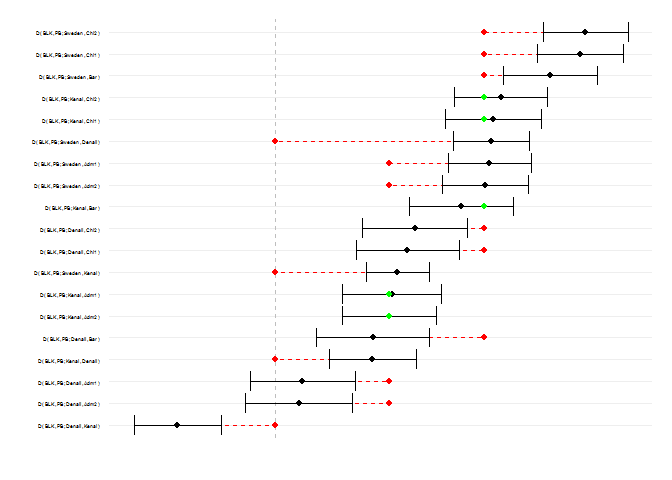
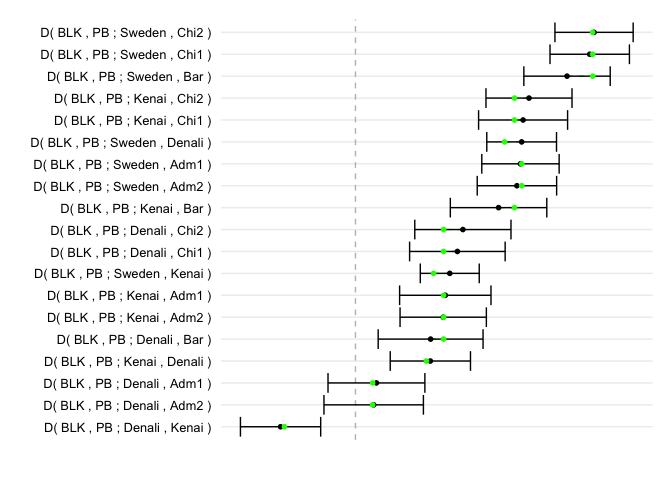
Changed order of parameters in fit_graph to preserve old interface
We don’t want to break the interface of the function since it is
already used quite a few places, so the parameters should come in the
same order as before.

diff --git a/README.md b/README.md
@@ -39,7 +39,7 @@ bears
 #> 16 BLK PB Sweden Denali  0.1267    14.3
 #> 17 BLK PB  Kenai Denali  0.0571     5.6
 #> 18 BLK PB Sweden  Kenai  0.0719     9.6
-#> 19 BLK PB Denali  Kenai -0.0571     5.6
+#> 19 BLK PB Denali  Kenai -0.0571    -5.6
 ```
 
 The D column is the f4(W,X;Y,Z) statistic and the Z column is the Z-values obtained from a blocked jacknife (see Patterson *et al.* for details).
@@ -53,12 +53,15 @@ leaves <- c("BLK", "PB",
 inner_nodes <- c("R", "PBBB",
                  "Adm", "Chi", "BC", "ABC",
                  "x", "y", "z",
-                 "bc_a1", "pb_a1", "abc_a2", "pb_a2")
+                 "pb_a1", "pb_a2", "pb_a3", "pb_a4",
+                 "bc_a1", "abc_a2", "x_a3", "y_a4")
 
 edges <- parent_edges(c(edge("BLK", "R"),
                         edge("PB", "pb_a1"),
                         edge("pb_a1", "pb_a2"),
-                        edge("pb_a2", "PBBB"),
+                        edge("pb_a2", "pb_a3"),
+                        edge("pb_a3", "pb_a4"),
+                        edge("pb_a4", "PBBB"),
                         
                         edge("Chi1", "Chi"),
                         edge("Chi2", "Chi"),
@@ -74,12 +77,15 @@ edges <- parent_edges(c(edge("BLK", "R"),
                         
                         edge("ABC", "abc_a2"),
                         admixture_edge("abc_a2", "pb_a2", "x"),
+                        
                         edge("Denali", "x"),
-                        
-                        edge("x", "y"),
+                        edge("x", "x_a3"),
+                        admixture_edge("x_a3", "pb_a3", "y"),
+                      
                         edge("Kenai", "y"),
+                        edge("y", "y_a4"),                        
+                        admixture_edge("y_a4", "pb_a4", "z"),
                         
-                        edge("y", "z"),
                         edge("Sweden", "z"),
                         
                         edge("z", "PBBB"),
@@ -87,7 +93,9 @@ edges <- parent_edges(c(edge("BLK", "R"),
  
 
 admixtures <- admixture_proportions(c(admix_props("bc_a1", "pb_a1", "ABC", "a"),
-                                      admix_props("abc_a2", "pb_a2", "x", "b")))
+                                      admix_props("abc_a2", "pb_a2", "x", "b"),
+                                      admix_props("x_a3", "pb_a3", "y", "c"),
+                                      admix_props("y_a4", "pb_a4", "z", "d")))
                                 
 bears_graph <- agraph(leaves, inner_nodes, edges, admixtures)
 plot(bears_graph, show_inner_node_labels = TRUE, show_admixture_labels = TRUE)
@@ -95,48 +103,18 @@ plot(bears_graph, show_inner_node_labels = TRUE, show_admixture_labels = TRUE)
 
 ![](README-graph-1.png)
 
-The graph makes predictions on how the f4 statistics should look, in particular it allows us to predict the signs of the f4 statistics.
-
-``` r
-add_graph_f4_sign(bears, bears_graph)
-#>      W  X      Y      Z       D Z.value graph_f4_sign
-#> 1  BLK PB Sweden   Adm1  0.1258    12.8             1
-#> 2  BLK PB  Kenai   Adm1  0.0685     5.9             1
-#> 3  BLK PB Denali   Adm1  0.0160     1.3             1
-#> 4  BLK PB Sweden   Adm2  0.1231    12.2             1
-#> 5  BLK PB  Kenai   Adm2  0.0669     6.1             1
-#> 6  BLK PB Denali   Adm2  0.0139     1.1             1
-#> 7  BLK PB Sweden    Bar  0.1613    14.7             1
-#> 8  BLK PB  Kenai    Bar  0.1091     8.9             1
-#> 9  BLK PB Denali    Bar  0.0573     4.3             1
-#> 10 BLK PB Sweden   Chi1  0.1786    17.7             1
-#> 11 BLK PB  Kenai   Chi1  0.1278    11.3             1
-#> 12 BLK PB Denali   Chi1  0.0777     6.4             1
-#> 13 BLK PB Sweden   Chi2  0.1819    18.3             1
-#> 14 BLK PB  Kenai   Chi2  0.1323    12.1             1
-#> 15 BLK PB Denali   Chi2  0.0819     6.7             1
-#> 16 BLK PB Sweden Denali  0.1267    14.3             0
-#> 17 BLK PB  Kenai Denali  0.0571     5.6             0
-#> 18 BLK PB Sweden  Kenai  0.0719     9.6             0
-#> 19 BLK PB Denali  Kenai -0.0571     5.6             0
-```
-
-The way the signs are predicted is by extracting the equations for the f4 statistics that the graph implies: For each quartet of leaves we can extract an equation for the corresponding f4 statistics --- an equation in the edge lenghts and admixture proportions --- and if this equation only have positive values we know that the sign must be positive, if it only has negative values we know that it must be negative, and if it constant zero we know it must be zero.
-
-In general we will not always have only positive or negative terms, in which case we cannot this simply predict the sign for f4 statistics. If this is the case we need to set the parameters of the graph --- the edge lengths and admixture proportions --- to get the sign, and in that case we can also predict the numerical value of the f4 statistics from the graph.
-
 Fitting a graph to data
 -----------------------
 
-If you have the *neldermead* package installed you can also fit graph parameters to data. This is done using the *fit\_graph* function
+The graph makes predictions on how the f4 statistics should look. If you have the *neldermead* package installed you can fit graph parameters to observed D statistics. This is done using the *fit\_graph* function
 
 ``` r
 fit <- fit_graph(bears, bears_graph)
 fit
+#> 
 #> Call:
 #> fit_graph(bears, bears_graph)
-#> 
-#> Sum of squared error: 0.05616058
+#> Minimal error: 0.001490682
 ```
 
 The object it returns contains an environment that contains the fitted parameters and a data frame containing the original data together with an extra column, graph\_f4, containing the fitted values.
@@ -145,23 +123,71 @@ You can get the fitted values by calling the *summary* function.
 
 ``` r
 summary(fit)
-#> $edges
-#>        edge_R_BLK       edge_R_PBBB       edge_PBBB_z   edge_PBBB_pb_a2 
-#>         0.5578745         0.6533692         0.3308397         0.1310714 
-#>     edge_Adm_Adm1     edge_Adm_Adm2     edge_Chi_Chi1     edge_Chi_Chi2 
-#>         0.2377484         0.4161372         0.3390001         0.3980298 
-#>       edge_BC_Bar       edge_BC_Chi      edge_ABC_Adm    edge_ABC_bc_a1 
-#>         0.3713564         0.2121660         0.2812783         0.6126012 
-#>     edge_x_Denali     edge_x_abc_a2      edge_y_Kenai          edge_y_x 
-#>         0.5322290         0.1177221         0.6800850         0.2068741 
-#>     edge_z_Sweden          edge_z_y     edge_bc_a1_BC     edge_pb_a1_PB 
-#>         0.1944327         0.3962563         0.6673905         0.7039828 
-#>  edge_pb_a1_bc_a1   edge_abc_a2_ABC  edge_pb_a2_pb_a1 edge_pb_a2_abc_a2 
-#>         0.5430706         0.5114686         0.2511370         0.5978245 
 #> 
-#> $admixture_proportions
-#>         a         b 
-#> 0.1773438 0.5107676
+#> Call:
+#> fit_graph(bears, bears_graph)
+#> 
+#> Optimal admix variables:
+#>          a          b          c          d 
+#> 0.02456094 0.18425666 0.65506255 0.72709146 
+#> 
+#> Optimal edge variables:
+#>        edge_R_BLK       edge_R_PBBB       edge_PBBB_z   edge_PBBB_pb_a4 
+#>        0.00000000        0.00000000        0.00000000        0.08191886 
+#>     edge_Adm_Adm1     edge_Adm_Adm2     edge_Chi_Chi1     edge_Chi_Chi2 
+#>        0.00000000        0.00000000        0.00000000        0.00000000 
+#>       edge_BC_Bar       edge_BC_Chi      edge_ABC_Adm    edge_ABC_bc_a1 
+#>        0.00000000        0.00000000        0.00000000        0.00000000 
+#>     edge_x_Denali     edge_x_abc_a2      edge_y_Kenai       edge_y_x_a3 
+#>        0.00000000        0.00000000        0.00000000        0.00000000 
+#>     edge_z_Sweden       edge_z_y_a4     edge_pb_a1_PB  edge_pb_a1_bc_a1 
+#>        0.00000000        0.00000000        0.00000000        0.00000000 
+#>  edge_pb_a2_pb_a1 edge_pb_a2_abc_a2  edge_pb_a3_pb_a2   edge_pb_a3_x_a3 
+#>        2.14327501        0.00000000        0.04267679        0.00000000 
+#>  edge_pb_a4_pb_a3   edge_pb_a4_y_a4     edge_bc_a1_BC   edge_abc_a2_ABC 
+#>        0.06023118        0.00000000        0.00000000        0.00000000 
+#>       edge_x_a3_x       edge_y_a4_y 
+#>        0.00000000        0.00000000 
+#> 
+#> Solution to a homogeneous system of edges with the optimal admix variables:
+#> (Adding any such solution to the optimal one will not affect the error.)
+#> 
+#> Free edge variables:
+#> edge_R_BLK
+#> edge_R_PBBB
+#> edge_PBBB_z
+#> edge_Adm_Adm1
+#> edge_Adm_Adm2
+#> edge_Chi_Chi1
+#> edge_Chi_Chi2
+#> edge_BC_Bar
+#> edge_BC_Chi
+#> edge_ABC_Adm
+#> edge_ABC_bc_a1
+#> edge_x_Denali
+#> edge_x_abc_a2
+#> edge_y_Kenai
+#> edge_y_x_a3
+#> edge_z_Sweden
+#> edge_z_y_a4
+#> edge_pb_a1_PB
+#> edge_pb_a1_bc_a1
+#> edge_pb_a2_abc_a2
+#> edge_pb_a3_x_a3
+#> edge_pb_a4_y_a4
+#> edge_bc_a1_BC
+#> edge_abc_a2_ABC
+#> edge_x_a3_x
+#> edge_y_a4_y
+#> 
+#> Bounded edge variables:
+#> edge_PBBB_pb_a4 = 0
+#> edge_pb_a2_pb_a1 = 0
+#> edge_pb_a3_pb_a2 = 0
+#> edge_pb_a4_pb_a3 = 0
+#> 
+#> Minimal error:
+#> 0.001490682
 ```
 
 This function also returns the fitted values as a list, so you can assign the result to an object if you need to access it later.
@@ -170,46 +196,71 @@ You can also get the fitted parameters using the generic *coef* or *coefficients
 
 ``` r
 coef(fit)
-#>        edge_R_BLK       edge_R_PBBB       edge_PBBB_z   edge_PBBB_pb_a2 
-#>         0.5578745         0.6533692         0.3308397         0.1310714 
+#> [[1]]
+#> [1] FALSE
+#> 
+#> [[2]]
+#>          a          b          c          d 
+#> 0.02456094 0.18425666 0.65506255 0.72709146 
+#> 
+#> [[3]]
+#>        edge_R_BLK       edge_R_PBBB       edge_PBBB_z   edge_PBBB_pb_a4 
+#>        0.00000000        0.00000000        0.00000000        0.08191886 
 #>     edge_Adm_Adm1     edge_Adm_Adm2     edge_Chi_Chi1     edge_Chi_Chi2 
-#>         0.2377484         0.4161372         0.3390001         0.3980298 
+#>        0.00000000        0.00000000        0.00000000        0.00000000 
 #>       edge_BC_Bar       edge_BC_Chi      edge_ABC_Adm    edge_ABC_bc_a1 
-#>         0.3713564         0.2121660         0.2812783         0.6126012 
-#>     edge_x_Denali     edge_x_abc_a2      edge_y_Kenai          edge_y_x 
-#>         0.5322290         0.1177221         0.6800850         0.2068741 
-#>     edge_z_Sweden          edge_z_y     edge_bc_a1_BC     edge_pb_a1_PB 
-#>         0.1944327         0.3962563         0.6673905         0.7039828 
-#>  edge_pb_a1_bc_a1   edge_abc_a2_ABC  edge_pb_a2_pb_a1 edge_pb_a2_abc_a2 
-#>         0.5430706         0.5114686         0.2511370         0.5978245 
-#>                 a                 b 
-#>         0.1773438         0.5107676
+#>        0.00000000        0.00000000        0.00000000        0.00000000 
+#>     edge_x_Denali     edge_x_abc_a2      edge_y_Kenai       edge_y_x_a3 
+#>        0.00000000        0.00000000        0.00000000        0.00000000 
+#>     edge_z_Sweden       edge_z_y_a4     edge_pb_a1_PB  edge_pb_a1_bc_a1 
+#>        0.00000000        0.00000000        0.00000000        0.00000000 
+#>  edge_pb_a2_pb_a1 edge_pb_a2_abc_a2  edge_pb_a3_pb_a2   edge_pb_a3_x_a3 
+#>        2.14327501        0.00000000        0.04267679        0.00000000 
+#>  edge_pb_a4_pb_a3   edge_pb_a4_y_a4     edge_bc_a1_BC   edge_abc_a2_ABC 
+#>        0.06023118        0.00000000        0.00000000        0.00000000 
+#>       edge_x_a3_x       edge_y_a4_y 
+#>        0.00000000        0.00000000 
+#> 
+#> [[4]]
+#>  [1] "edge_R_BLK"        "edge_R_PBBB"       "edge_PBBB_z"      
+#>  [4] "edge_Adm_Adm1"     "edge_Adm_Adm2"     "edge_Chi_Chi1"    
+#>  [7] "edge_Chi_Chi2"     "edge_BC_Bar"       "edge_BC_Chi"      
+#> [10] "edge_ABC_Adm"      "edge_ABC_bc_a1"    "edge_x_Denali"    
+#> [13] "edge_x_abc_a2"     "edge_y_Kenai"      "edge_y_x_a3"      
+#> [16] "edge_z_Sweden"     "edge_z_y_a4"       "edge_pb_a1_PB"    
+#> [19] "edge_pb_a1_bc_a1"  "edge_pb_a2_abc_a2" "edge_pb_a3_x_a3"  
+#> [22] "edge_pb_a4_y_a4"   "edge_bc_a1_BC"     "edge_abc_a2_ABC"  
+#> [25] "edge_x_a3_x"       "edge_y_a4_y"      
+#> 
+#> [[5]]
+#> [1] "edge_PBBB_pb_a4 = 0"  "edge_pb_a2_pb_a1 = 0" "edge_pb_a3_pb_a2 = 0"
+#> [4] "edge_pb_a4_pb_a3 = 0"
 ```
 
 To get the fitted predictions, together with the data used for fitting, use the *fitted* function.
 
 ``` r
 fitted(fit)
-#>      W  X      Y      Z       D Z.value   graph_f4
-#> 1  BLK PB Sweden   Adm1  0.1258    12.8 0.06694705
-#> 2  BLK PB  Kenai   Adm1  0.0685     5.9 0.06694705
-#> 3  BLK PB Denali   Adm1  0.0160     1.3 0.06694705
-#> 4  BLK PB Sweden   Adm2  0.1231    12.2 0.06694705
-#> 5  BLK PB  Kenai   Adm2  0.0669     6.1 0.06694705
-#> 6  BLK PB Denali   Adm2  0.0139     1.1 0.06694705
-#> 7  BLK PB Sweden    Bar  0.1613    14.7 0.12285671
-#> 8  BLK PB  Kenai    Bar  0.1091     8.9 0.12285671
-#> 9  BLK PB Denali    Bar  0.0573     4.3 0.12285671
-#> 10 BLK PB Sweden   Chi1  0.1786    17.7 0.12285671
-#> 11 BLK PB  Kenai   Chi1  0.1278    11.3 0.12285671
-#> 12 BLK PB Denali   Chi1  0.0777     6.4 0.12285671
-#> 13 BLK PB Sweden   Chi2  0.1819    18.3 0.12285671
-#> 14 BLK PB  Kenai   Chi2  0.1323    12.1 0.12285671
-#> 15 BLK PB Denali   Chi2  0.0819     6.7 0.12285671
-#> 16 BLK PB Sweden Denali  0.1267    14.3 0.00000000
-#> 17 BLK PB  Kenai Denali  0.0571     5.6 0.00000000
-#> 18 BLK PB Sweden  Kenai  0.0719     9.6 0.00000000
-#> 19 BLK PB Denali  Kenai -0.0571     5.6 0.00000000
+#>      W  X      Y      Z       D Z.value    graph_f4
+#> 1  BLK PB Sweden   Adm1  0.1258    12.8  0.12677500
+#> 2  BLK PB  Kenai   Adm1  0.0685     5.9  0.06721250
+#> 3  BLK PB Denali   Adm1  0.0160     1.3  0.01311250
+#> 4  BLK PB Sweden   Adm2  0.1231    12.2  0.12677500
+#> 5  BLK PB  Kenai   Adm2  0.0669     6.1  0.06721250
+#> 6  BLK PB Denali   Adm2  0.0139     1.1  0.01311250
+#> 7  BLK PB Sweden    Bar  0.1613    14.7  0.18084167
+#> 8  BLK PB  Kenai    Bar  0.1091     8.9  0.12127917
+#> 9  BLK PB Denali    Bar  0.0573     4.3  0.06717917
+#> 10 BLK PB Sweden   Chi1  0.1786    17.7  0.18084167
+#> 11 BLK PB  Kenai   Chi1  0.1278    11.3  0.12127917
+#> 12 BLK PB Denali   Chi1  0.0777     6.4  0.06717917
+#> 13 BLK PB Sweden   Chi2  0.1819    18.3  0.18084167
+#> 14 BLK PB  Kenai   Chi2  0.1323    12.1  0.12127917
+#> 15 BLK PB Denali   Chi2  0.0819     6.7  0.06717917
+#> 16 BLK PB Sweden Denali  0.1267    14.3  0.11366250
+#> 17 BLK PB  Kenai Denali  0.0571     5.6  0.05410000
+#> 18 BLK PB Sweden  Kenai  0.0719     9.6  0.05956250
+#> 19 BLK PB Denali  Kenai -0.0571    -5.6 -0.05410000
 ```
 
 You can make a plot of the fit against the data using the *plot* function.
